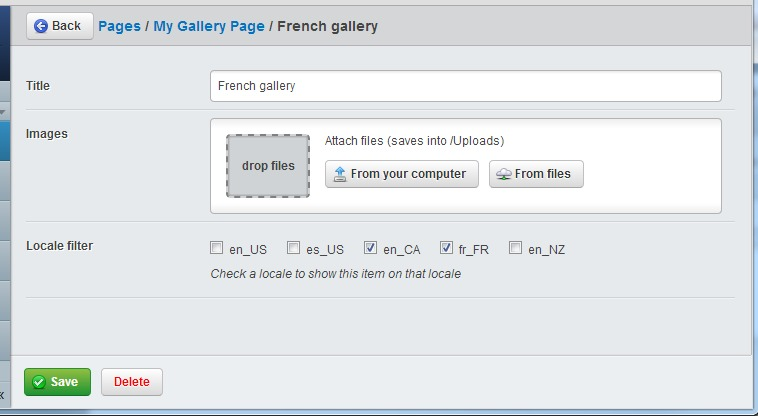
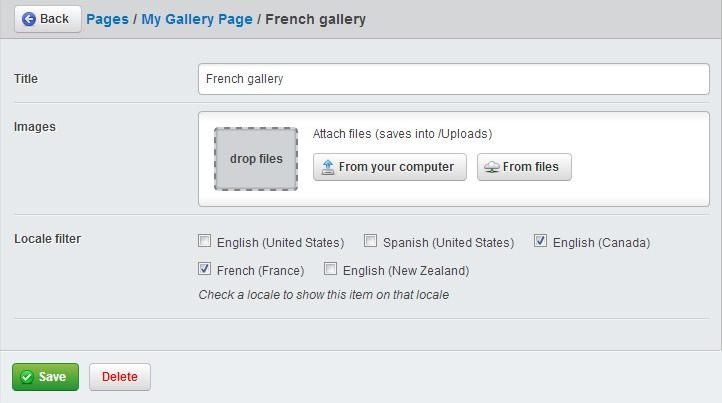
API FluentFilteredExtension now has getFilteredLocals and setFilteredLocales to assist with BUG Locale filter now uses actual locale names instead of codes in the CMS (in line with the dropdown filter) BUG Locale filter now correctly uses Fluent::db_field_for_locale helper Search adapter is now cach

Changed region(s): [[0.0, 0.0, 1.0, 1.0], [0.2742, 0.5658, 0.9141, 0.6849], [0.2742, 0.7146, 0.6399, 0.7444]]

diff --git a/code/extensions/FluentFilteredExtension.php b/code/extensions/FluentFilteredExtension.php
@@ -8,6 +8,37 @@
  */
 class FluentFilteredExtension extends DataExtension {
 	
+	/**
+	 * Set the filter of locales to the specified locale, or array of locales
+	 * 
+	 * @param string|array $locale Locale, or list of locales
+	 * @param string $locale... Additional locales
+	 */
+	public function setFilteredLocales($locales) {
+		$locales = is_array($locales) ? $locales : func_get_args();
+		foreach(Fluent::locales() as $locale) {
+			$field = Fluent::db_field_for_locale("LocaleFilter", $locale);
+			$this->owner->$field = in_array($locale, $locales);
+		}
+	}
+	
+	/**
+	 * Gets the list of locales this items is filtered against
+	 * 
+	 * @param boolean $excluded Set to true to get excluded instead of included locales
+	 * @return array List of locales
+	 */
+	public function getFilteredLocales($excluded = false) {
+		$locales = array();
+		foreach(Fluent::locales() as $locale) {
+			$field = Fluent::db_field_for_locale("LocaleFilter", $locale);
+			if($this->owner->$field xor $excluded) {
+				$locales[] = $locale;
+			}
+		}
+		return $locales;
+	}
+	
 	public static function get_extra_config($class, $extension, $args) {
 		
 		// Create a separate boolean field to indicate visibility in each field
@@ -15,7 +46,7 @@ class FluentFilteredExtension extends DataExtension {
 		$defaults = array();
 		
 		foreach(Fluent::locales() as $locale) {
-			$field = "LocaleFilter_{$locale}";
+			$field = Fluent::db_field_for_locale("LocaleFilter", $locale);
 			// Copy field to translated field
 			$db[$field] = 'Boolean(1)';
 			$defaults[$field] = '1';
@@ -33,7 +64,9 @@ class FluentFilteredExtension extends DataExtension {
 		$filterField = new FieldGroup();
 		$filterField->setTitle('Locale filter');
 		foreach(Fluent::locales() as $locale) {
-			$filterField->push(new CheckboxField("LocaleFilter_{$locale}", $locale, 1));
+			$id = Fluent::db_field_for_locale("LocaleFilter", $locale);
+			$title = i18n::get_locale_name($locale);
+			$filterField->push(new CheckboxField($id, $title));
 		}
 		$filterField->push($descriptionField = new LiteralField(
 			'LocaleFilterDescription',

diff --git a/tests/FluentTest.php b/tests/FluentTest.php
@@ -182,6 +182,9 @@ class FluentTest extends SapphireTest {
 		), $db);
 	}
 	
+	/**
+	 * Test that filtered objects are queried correctly
+	 */
 	public function testFilteredObjects() {
 		
 		// Check locale that should have some items
@@ -196,6 +199,31 @@ class FluentTest extends SapphireTest {
 		
 		// Put default locale back
 		Fluent::set_persist_locale('fr_CA');
+	}
+	
+	/*
+	 * Test that locale filter can be augmented properly
+	 */
+	public function testUpdateFilteredObject() {
+		
+		// Test basic filter
+		$ids = DataObject::get('FluentTest_FilteredObject')->sort('Title')->column('Title');
+		$this->assertEquals(array('filtered 2'), $ids);
+		
+		// Test that item can have filter changed
+		$item = $this->objFromFixture('FluentTest_FilteredObject', 'filtered2');
+		$item->setFilteredLocales('fr_CA');
+		$this->assertTrue($item->LocaleFilter_fr_CA);
+		$this->assertEquals(array('fr_CA'), $item->getFilteredLocales());
+		
+		// Test exclusion
+		$this->assertEquals(array('en_NZ', 'en_US', 'es_ES'), $item->getFilteredLocales(true));
+		
+		// Test item set to foreign locale limits this item
+		$item->setFilteredLocales('en_NZ', 'en_US');
+		$item->write();
+		$ids = DataObject::get('FluentTest_FilteredObject')->sort('Title')->column('Title');
+		$this->assertEquals(array(), $ids);
 	}
 	
 	/**

diff --git a/code/Fluent.php b/code/Fluent.php
@@ -367,14 +367,22 @@ class Fluent extends Object {
 	}
 	
 	/**
+	 * Cached search adapter
+	 *
+	 * @var FluentSearchAdapter
+	 */
+	protected static $_search_dapter = null;
+	
+	/**
 	 * Retrieves a search adapter for the current database adapter
 	 * 
 	 * @return FluentSearchAdapter
 	 */
 	public static function search_adapter() {
+		if(self::$_search_dapter) return self::$_search_dapter;
 		foreach(self::config()->search_adapters as $connector => $adapter) {
 			if($connector && $adapter && DB::getConn() instanceof $connector) {
-				return new $adapter();
+				return self::$_search_dapter = new $adapter();
 			}
 		}
 	}
